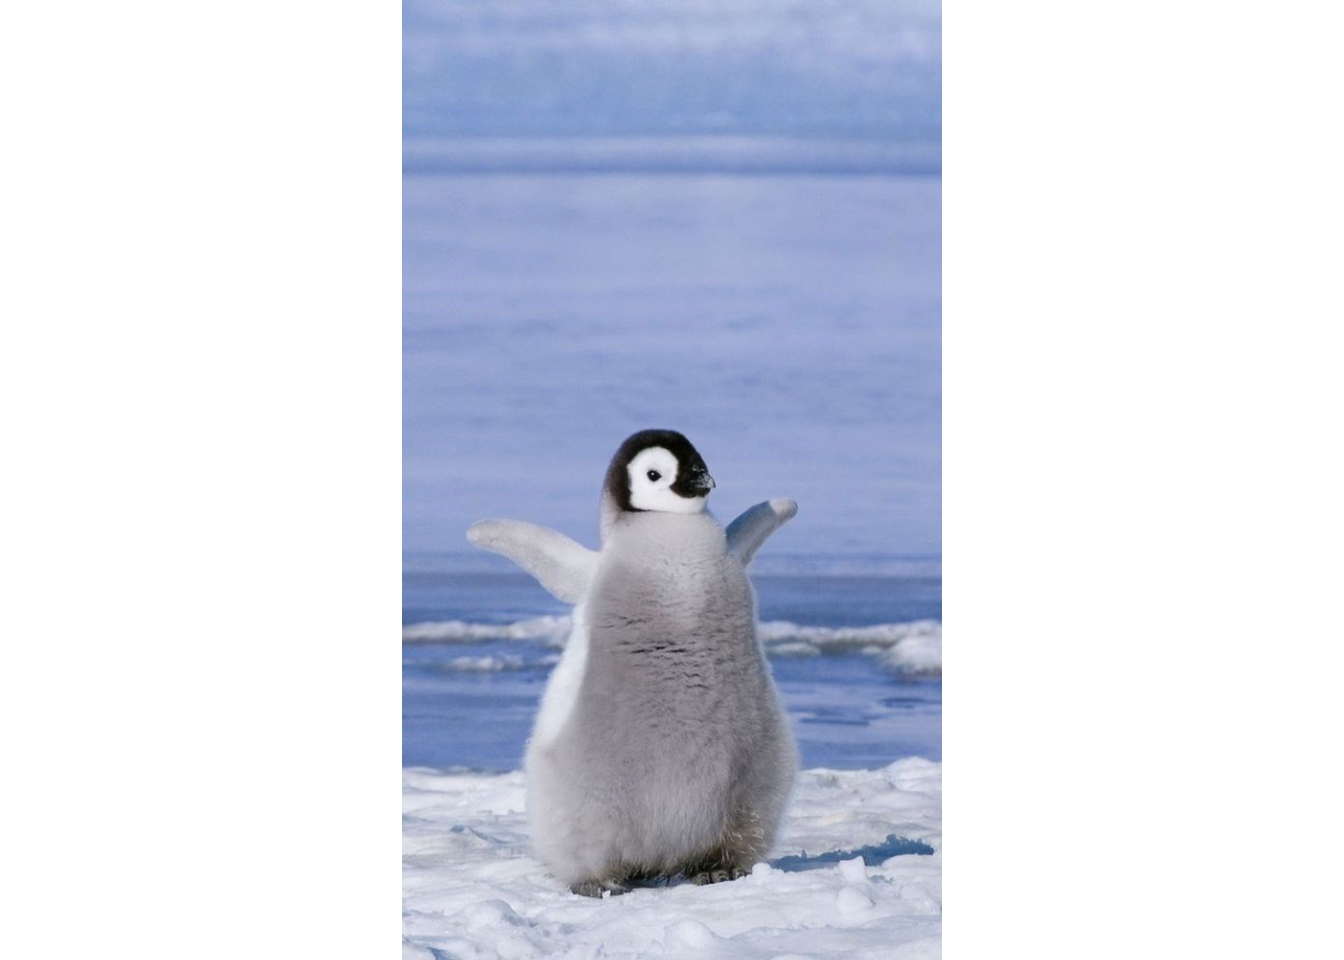
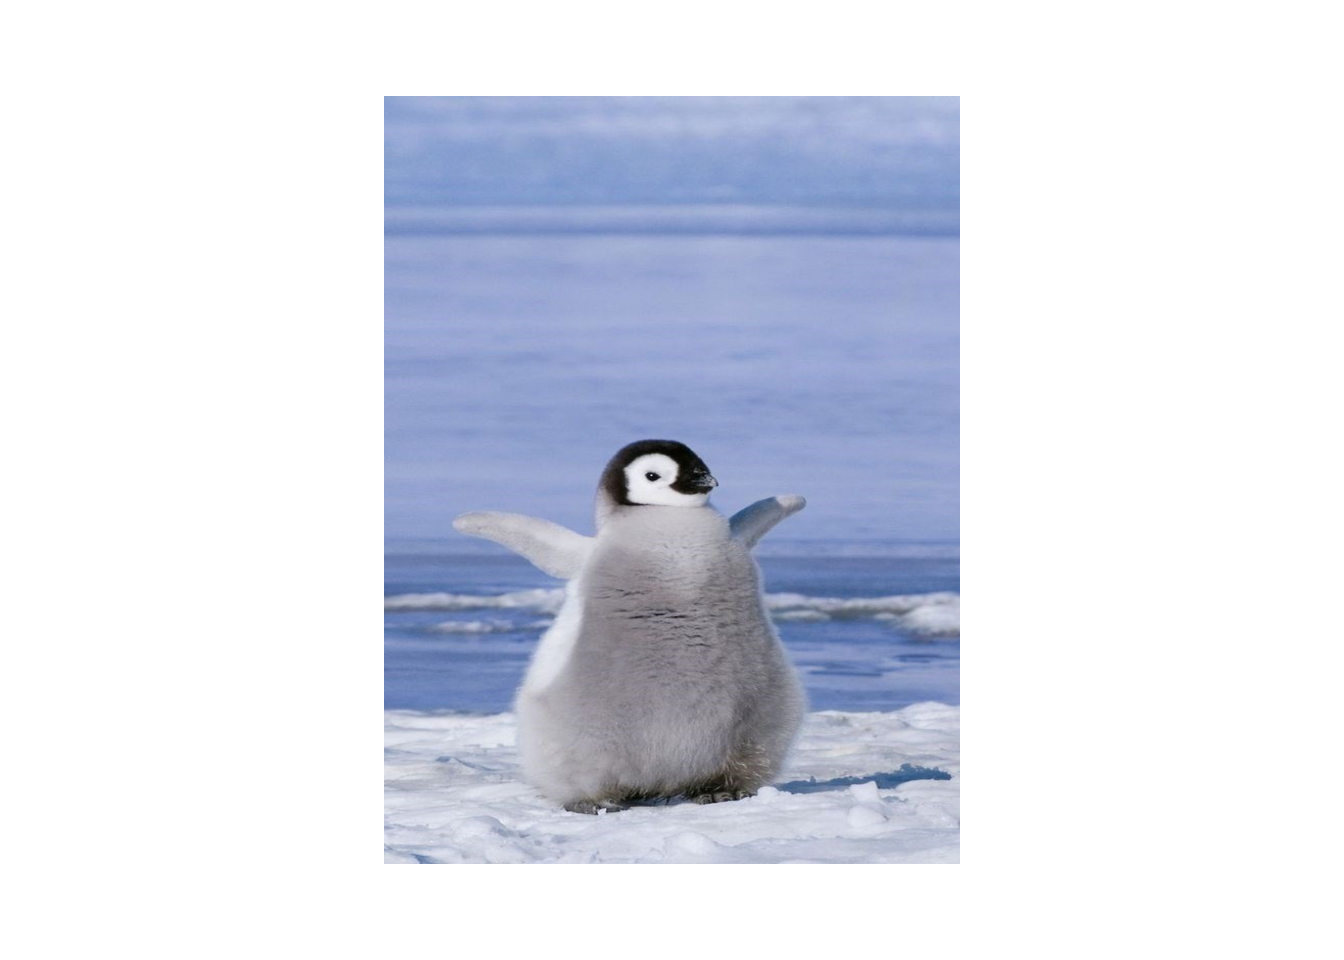
Built site for gh-pages

Changed region(s): [[0.2812, 0.0, 0.7188, 1.0]]

diff --git a/model.html b/model.html
@@ -181,7 +181,7 @@ pre > code.sourceCode > span > a:first-child::before { text-decoration: underlin
 </header>
 
 
-<div id="9e6af191" class="cell" data-execution_count="1">
+<div id="12eed860" class="cell" data-execution_count="1">
 <details class="code-fold">
 <summary>Code</summary>
 <div class="sourceCode cell-code" id="cb1"><pre class="sourceCode python code-with-copy"><code class="sourceCode python"><span id="cb1-1"><a href="#cb1-1" aria-hidden="true" tabindex="-1"></a><span class="im">import</span> warnings</span>
@@ -199,7 +199,7 @@ pre > code.sourceCode > span > a:first-child::before { text-decoration: underlin
 </details>
 </div>
 <p>Get Data</p>
-<div id="52777d40" class="cell" data-execution_count="2">
+<div id="c534a462" class="cell" data-execution_count="2">
 <details class="code-fold">
 <summary>Code</summary>
 <div class="sourceCode cell-code" id="cb2"><pre class="sourceCode python code-with-copy"><code class="sourceCode python"><span id="cb2-1"><a href="#cb2-1" aria-hidden="true" tabindex="-1"></a>df <span class="op">=</span> penguins.load_penguins().dropna()</span>
@@ -267,7 +267,7 @@ pre > code.sourceCode > span > a:first-child::before { text-decoration: underlin
 </div>
 </div>
 <p>Define Model and Fit</p>
-<div id="c2f8a718" class="cell" data-execution_count="3">
+<div id="0cc657f6" class="cell" data-execution_count="3">
 <details class="code-fold">
 <summary>Code</summary>
 <div class="sourceCode cell-code" id="cb3"><pre class="sourceCode python code-with-copy"><code class="sourceCode python"><span id="cb3-1"><a href="#cb3-1" aria-hidden="true" tabindex="-1"></a>X <span class="op">=</span> get_dummies(df[[<span class="st">'bill_length_mm'</span>, <span class="st">'species'</span>, <span class="st">'sex'</span>]], drop_first <span class="op">=</span> <span class="va">True</span>)</span>
@@ -277,7 +277,7 @@ pre > code.sourceCode > span > a:first-child::before { text-decoration: underlin
 </details>
 </div>
 <p>Get some information</p>
-<div id="3e2c5c2d" class="cell" data-execution_count="4">
+<div id="1f78745a" class="cell" data-execution_count="4">
 <details class="code-fold">
 <summary>Code</summary>
 <div class="sourceCode cell-code" id="cb4"><pre class="sourceCode python code-with-copy"><code class="sourceCode python"><span id="cb4-1"><a href="#cb4-1" aria-hidden="true" tabindex="-1"></a><span class="bu">print</span>(<span class="ss">f"R^2 </span><span class="sc">{</span>model<span class="sc">.</span>score(X,y)<span class="sc">}</span><span class="ss">"</span>)</span>
@@ -292,14 +292,14 @@ Columns Index(['bill_length_mm', 'species_Chinstrap', 'species_Gentoo', 'sex_mal
 Coefficients [  32.53688677 -298.76553447 1094.86739145  547.36692408]</code></pre>
 </div>
 </div>
-<div id="baa70cff" class="cell" data-execution_count="5">
+<div id="30dd1c71" class="cell" data-execution_count="5">
 <details class="code-fold">
 <summary>Code</summary>
 <div class="sourceCode cell-code" id="cb6"><pre class="sourceCode python code-with-copy"><code class="sourceCode python"><span id="cb6-1"><a href="#cb6-1" aria-hidden="true" tabindex="-1"></a><span class="im">from</span> vetiver <span class="im">import</span> VetiverModel</span>
 <span id="cb6-2"><a href="#cb6-2" aria-hidden="true" tabindex="-1"></a>v <span class="op">=</span> VetiverModel(model, model_name<span class="op">=</span><span class="st">'penguin_model'</span>, prototype_data<span class="op">=</span>X)</span></code><button title="Copy to Clipboard" class="code-copy-button"><i class="bi"></i></button></pre></div>
 </details>
 </div>
-<div id="39700edc" class="cell" data-execution_count="6">
+<div id="375158b9" class="cell" data-execution_count="6">
 <details class="code-fold">
 <summary>Code</summary>
 <div class="sourceCode cell-code" id="cb7"><pre class="sourceCode python code-with-copy"><code class="sourceCode python"><span id="cb7-1"><a href="#cb7-1" aria-hidden="true" tabindex="-1"></a><span class="im">import</span> pins</span>
@@ -313,10 +313,10 @@ Coefficients [  32.53688677 -298.76553447 1094.86739145  547.36692408]</code></p
  with vetiver.model_card()
 Writing pin:
 Name: 'penguin_model'
-Version: 20240425T130924Z-19257</code></pre>
+Version: 20240425T131849Z-19257</code></pre>
 </div>
 </div>
-<div id="b7e8adc7" class="cell" data-execution_count="7">
+<div id="a31972ab" class="cell" data-execution_count="7">
 <details class="code-fold">
 <summary>Code</summary>
 <div class="sourceCode cell-code" id="cb9"><pre class="sourceCode python code-with-copy"><code class="sourceCode python"><span id="cb9-1"><a href="#cb9-1" aria-hidden="true" tabindex="-1"></a><span class="co">#from joblib import dump, load</span></span>
@@ -329,14 +329,14 @@ Version: 20240425T130924Z-19257</code></pre>
 <span id="cb9-8"><a href="#cb9-8" aria-hidden="true" tabindex="-1"></a><span class="co">#dump(model, f'{model_directory}/{model_filename}')</span></span></code><button title="Copy to Clipboard" class="code-copy-button"><i class="bi"></i></button></pre></div>
 </details>
 </div>
-<div id="13e7d86a" class="cell" data-execution_count="8">
+<div id="98057467" class="cell" data-execution_count="8">
 <details class="code-fold">
 <summary>Code</summary>
 <div class="sourceCode cell-code" id="cb10"><pre class="sourceCode python code-with-copy"><code class="sourceCode python"><span id="cb10-1"><a href="#cb10-1" aria-hidden="true" tabindex="-1"></a><span class="co"># Load the model</span></span>
 <span id="cb10-2"><a href="#cb10-2" aria-hidden="true" tabindex="-1"></a><span class="co">#model = load(f'{model_directory}/{model_filename}')</span></span></code><button title="Copy to Clipboard" class="code-copy-button"><i class="bi"></i></button></pre></div>
 </details>
 </div>
-<div id="e6a7db8d" class="cell" data-execution_count="9">
+<div id="0f98a88d" class="cell" data-execution_count="9">
 <details class="code-fold">
 <summary>Code</summary>
 <div class="sourceCode cell-code" id="cb11"><pre class="sourceCode python code-with-copy"><code class="sourceCode python"><span id="cb11-1"><a href="#cb11-1" aria-hidden="true" tabindex="-1"></a><span class="co"># Generate a FastAPI app from the vetiver model</span></span>
@@ -350,7 +350,7 @@ Version: 20240425T130924Z-19257</code></pre>
 </details>
 </div>
 <p>Can be accessed through “http://localhost:8080”</p>
-<div id="d591a017" class="cell" data-execution_count="10">
+<div id="25860763" class="cell" data-execution_count="10">
 <details class="code-fold">
 <summary>Code</summary>
 <div class="sourceCode cell-code" id="cb12"><pre class="sourceCode python code-with-copy"><code class="sourceCode python"><span id="cb12-1"><a href="#cb12-1" aria-hidden="true" tabindex="-1"></a><span class="co">#import vetiver</span></span>

diff --git a/index.html b/index.html
@@ -20,40 +20,6 @@ ul.task-list li input[type="checkbox"] {
   margin: 0 0.8em 0.2em -1em; /* quarto-specific, see https://github.com/quarto-dev/quarto-cli/issues/4556 */ 
   vertical-align: middle;
 }
-/* CSS for syntax highlighting */
-pre > code.sourceCode { white-space: pre; position: relative; }
-pre > code.sourceCode > span { line-height: 1.25; }
-pre > code.sourceCode > span:empty { height: 1.2em; }
-.sourceCode { overflow: visible; }
-code.sourceCode > span { color: inherit; text-decoration: inherit; }
-div.sourceCode { margin: 1em 0; }
-pre.sourceCode { margin: 0; }
-@media screen {
-div.sourceCode { overflow: auto; }
-}
-@media print {
-pre > code.sourceCode { white-space: pre-wrap; }
-pre > code.sourceCode > span { text-indent: -5em; padding-left: 5em; }
-}
-pre.numberSource code
-  { counter-reset: source-line 0; }
-pre.numberSource code > span
-  { position: relative; left: -4em; counter-increment: source-line; }
-pre.numberSource code > span > a:first-child::before
-  { content: counter(source-line);
-    position: relative; left: -1em; text-align: right; vertical-align: baseline;
-    border: none; display: inline-block;
-    -webkit-touch-callout: none; -webkit-user-select: none;
-    -khtml-user-select: none; -moz-user-select: none;
-    -ms-user-select: none; user-select: none;
-    padding: 0 4px; width: 4em;
-  }
-pre.numberSource { margin-left: 3em;  padding-left: 4px; }
-div.sourceCode
-  {   }
-@media screen {
-pre > code.sourceCode > span > a:first-child::before { text-decoration: underline; }
-}
 </style>
 
 
@@ -187,22 +153,6 @@ pre > code.sourceCode > span > a:first-child::before { text-decoration: underlin
 <section id="section" class="level2">
 <h2 class="anchored" data-anchor-id="section"></h2>
 <div class="cell">
-<div class="sourceCode cell-code" id="cb1"><pre class="sourceCode r code-with-copy"><code class="sourceCode r"><span id="cb1-1"><a href="#cb1-1" aria-hidden="true" tabindex="-1"></a><span class="co"># Load required libraries</span></span>
-<span id="cb1-2"><a href="#cb1-2" aria-hidden="true" tabindex="-1"></a><span class="fu">library</span>(jpeg)</span>
-<span id="cb1-3"><a href="#cb1-3" aria-hidden="true" tabindex="-1"></a><span class="fu">library</span>(grid)</span>
-<span id="cb1-4"><a href="#cb1-4" aria-hidden="true" tabindex="-1"></a></span>
-<span id="cb1-5"><a href="#cb1-5" aria-hidden="true" tabindex="-1"></a><span class="co"># Path to the image</span></span>
-<span id="cb1-6"><a href="#cb1-6" aria-hidden="true" tabindex="-1"></a>image_path <span class="ot">&lt;-</span> <span class="st">"C:/Users/C25Karis.Desotell/OneDrive - afacademy.af.edu/Documents/Spring 2024/Math 378/Actual Final Project/penguin.jpg"</span></span>
-<span id="cb1-7"><a href="#cb1-7" aria-hidden="true" tabindex="-1"></a></span>
-<span id="cb1-8"><a href="#cb1-8" aria-hidden="true" tabindex="-1"></a><span class="co"># Load an image</span></span>
-<span id="cb1-9"><a href="#cb1-9" aria-hidden="true" tabindex="-1"></a>img <span class="ot">&lt;-</span> <span class="fu">readJPEG</span>(image_path)</span>
-<span id="cb1-10"><a href="#cb1-10" aria-hidden="true" tabindex="-1"></a></span>
-<span id="cb1-11"><a href="#cb1-11" aria-hidden="true" tabindex="-1"></a><span class="co"># Create a raster object</span></span>
-<span id="cb1-12"><a href="#cb1-12" aria-hidden="true" tabindex="-1"></a>rasterImage <span class="ot">&lt;-</span> <span class="fu">rasterGrob</span>(img, <span class="at">interpolate =</span> <span class="cn">TRUE</span>)</span>
-<span id="cb1-13"><a href="#cb1-13" aria-hidden="true" tabindex="-1"></a></span>
-<span id="cb1-14"><a href="#cb1-14" aria-hidden="true" tabindex="-1"></a><span class="co"># Plot the image</span></span>
-<span id="cb1-15"><a href="#cb1-15" aria-hidden="true" tabindex="-1"></a><span class="fu">grid.newpage</span>()</span>
-<span id="cb1-16"><a href="#cb1-16" aria-hidden="true" tabindex="-1"></a><span class="fu">grid.draw</span>(rasterImage)</span></code><button title="Copy to Clipboard" class="code-copy-button"><i class="bi"></i></button></pre></div>
 <div class="cell-output-display">
 <div>
 <figure class="figure">

diff --git a/model-db.html b/model-db.html
@@ -189,7 +189,7 @@ pre > code.sourceCode > span > a:first-child::before { text-decoration: underlin
 </header>
 
 
-<div id="53ab31de" class="cell" data-execution_count="1">
+<div id="6f6ac336" class="cell" data-execution_count="1">
 <details class="code-fold">
 <summary>Code</summary>
 <div class="sourceCode cell-code" id="cb1"><pre class="sourceCode python code-with-copy"><code class="sourceCode python"><span id="cb1-1"><a href="#cb1-1" aria-hidden="true" tabindex="-1"></a><span class="im">import</span> duckdb</span>
@@ -201,7 +201,7 @@ pre > code.sourceCode > span > a:first-child::before { text-decoration: underlin
 </div>
 <section id="get-data" class="level2">
 <h2 class="anchored" data-anchor-id="get-data">Get Data</h2>
-<div id="b93e4654" class="cell" data-execution_count="2">
+<div id="bdb74d89" class="cell" data-execution_count="2">
 <details class="code-fold">
 <summary>Code</summary>
 <div class="sourceCode cell-code" id="cb2"><pre class="sourceCode python code-with-copy"><code class="sourceCode python"><span id="cb2-1"><a href="#cb2-1" aria-hidden="true" tabindex="-1"></a>con <span class="op">=</span> duckdb.<span class="ex">connect</span>(<span class="st">'my-db.duckdb'</span>)</span>
@@ -273,7 +273,7 @@ pre > code.sourceCode > span > a:first-child::before { text-decoration: underlin
 </section>
 <section id="define-model-and-fit" class="level2">
 <h2 class="anchored" data-anchor-id="define-model-and-fit">Define Model and Fit</h2>
-<div id="7563ee2f" class="cell" data-execution_count="3">
+<div id="f1dfc544" class="cell" data-execution_count="3">
 <details class="code-fold">
 <summary>Code</summary>
 <div class="sourceCode cell-code" id="cb3"><pre class="sourceCode python code-with-copy"><code class="sourceCode python"><span id="cb3-1"><a href="#cb3-1" aria-hidden="true" tabindex="-1"></a>X <span class="op">=</span> get_dummies(df[[<span class="st">'bill_length_mm'</span>, <span class="st">'species'</span>, <span class="st">'sex'</span>]], drop_first <span class="op">=</span> <span class="va">True</span>)</span>
@@ -285,7 +285,7 @@ pre > code.sourceCode > span > a:first-child::before { text-decoration: underlin
 </section>
 <section id="get-some-information" class="level2">
 <h2 class="anchored" data-anchor-id="get-some-information">Get some information</h2>
-<div id="0cabc7e3" class="cell" data-execution_count="4">
+<div id="f55dc399" class="cell" data-execution_count="4">
 <details class="code-fold">
 <summary>Code</summary>
 <div class="sourceCode cell-code" id="cb4"><pre class="sourceCode python code-with-copy"><code class="sourceCode python"><span id="cb4-1"><a href="#cb4-1" aria-hidden="true" tabindex="-1"></a><span class="bu">print</span>(<span class="ss">f"R^2 </span><span class="sc">{</span>model<span class="sc">.</span>score(X,y)<span class="sc">}</span><span class="ss">"</span>)</span>
